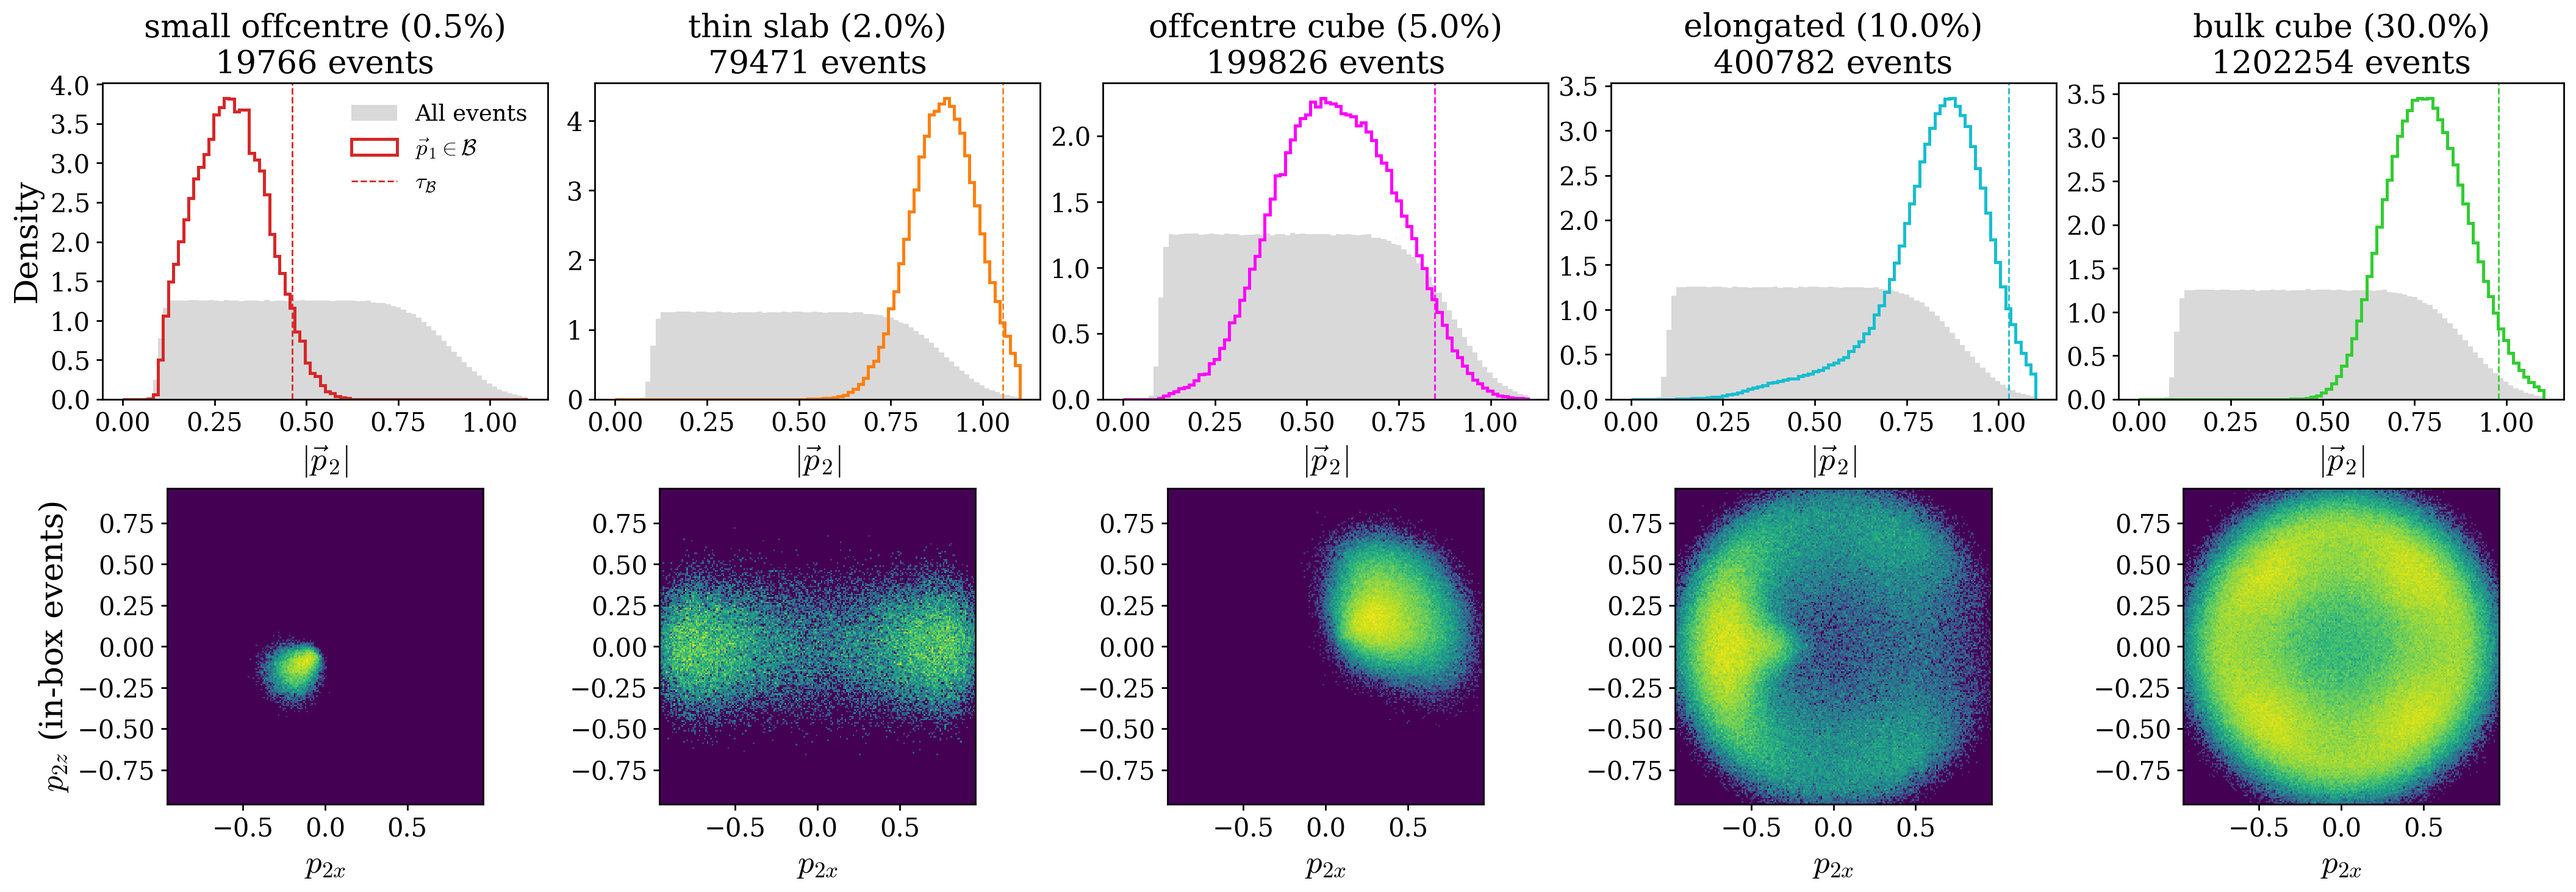
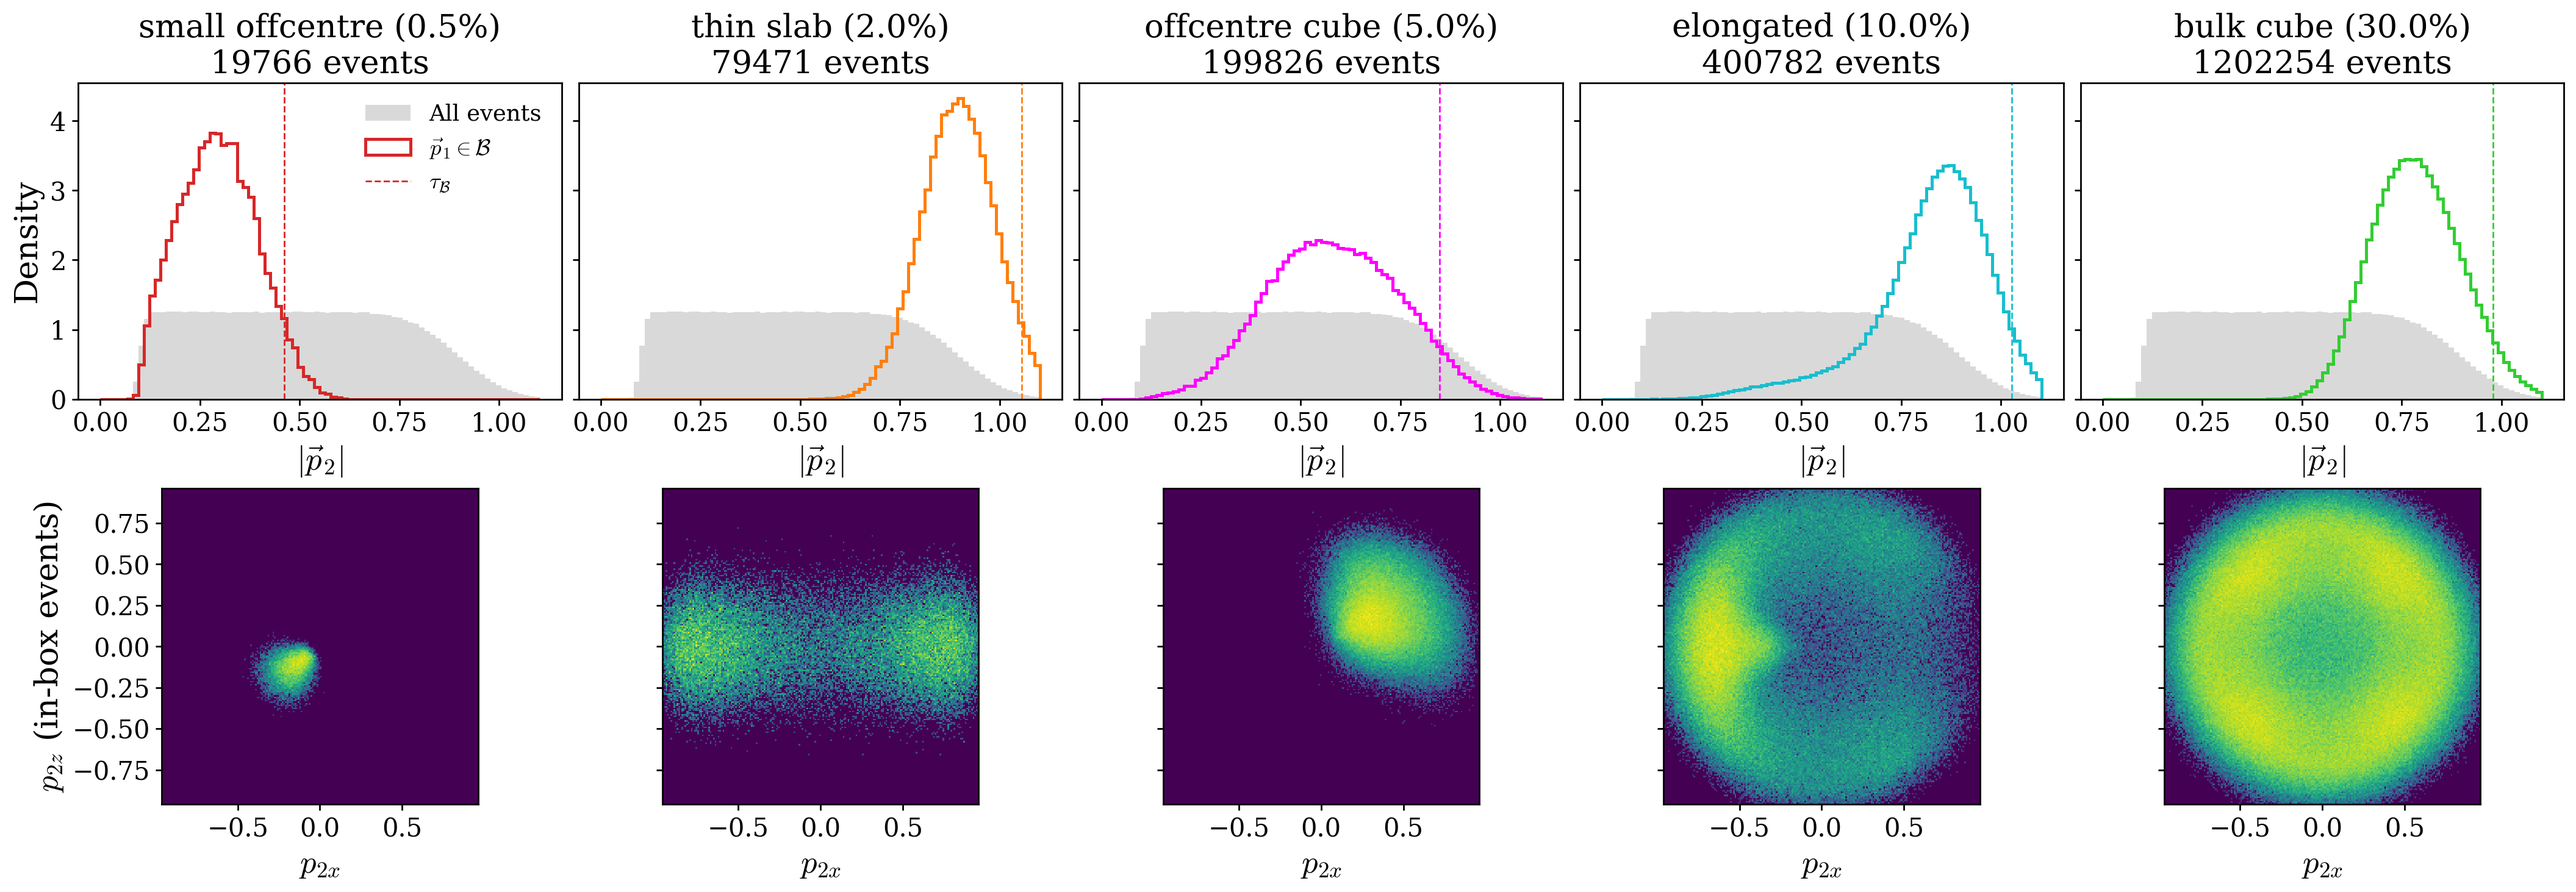
update markdown and figures

diff --git a/constrained_fm/src/visualization/decay6d_is.py b/constrained_fm/src/visualization/decay6d_is.py
@@ -254,7 +254,7 @@ def plot_dataset_p2_given_box(x: np.ndarray, boxes: list[dict]) -> Figure:
     with plt.rc_context(PAPER_RC):
         fig, axes = plt.subplots(2, len(boxes), figsize=(len(boxes) * PANEL_SIZE[0],
                                                          2 * PANEL_SIZE[1]),
-                                 layout="constrained", squeeze=False)
+                                 layout="constrained", sharey="row", squeeze=False)
         for b, (color, box) in enumerate(zip(BOX_COLORS, boxes)):
             inside = ((p1 >= box["lo"]) & (p1 <= box["hi"])).all(1)
             ax = axes[0, b]

diff --git a/constrained_fm/README_decay6d_is.md b/constrained_fm/README_decay6d_is.md
@@ -33,11 +33,18 @@ $$
 \mathbb E[f(\vec p_2)\mid \vec p_1\in\mathcal B].
 $$
 
-The three observables are $|\vec p_2|$, $p_{2z}$, and the tail indicator
-$\mathbb 1[|\vec p_2|>\tau_{\mathcal B}]$. Each box has its own $\tau_{\mathcal B}$, set to the
-95th percentile of $|\vec p_2|$ among true in-box events; therefore the ground-truth tail
-probability is approximately 5% in every box. The exact target density is computed by
-one-dimensional quadrature over $u$ (4096 trapezoid nodes).
+The three observables are $\lVert\vec p_2\rVert$, $p_{2z}$, and the tail indicator
+$\mathbb 1[\lVert\vec p_2\rVert>\tau_{\mathcal B}]$. Here $\tau_{\mathcal B}$ is a cutoff
+chosen separately for each box: 95% of true events inside that box have a smaller
+$\lVert\vec p_2\rVert$, and about 5% have a larger one. It is not a universal physics constant;
+it makes the tail observable similarly rare in all five boxes.
+
+The target density formula contains the hidden split fraction $u$. For a given observed pair
+$(\vec p_1,\vec p_2)$, the density is found by adding up the contributions from all possible
+values of $u$ between 0.1 and 0.9. The code approximates this one-dimensional integral with
+4096 evenly spaced points and trapezoid weights. In this report, “exact density” means this
+physics-based density calculation, as opposed to a density learned by a neural network; the
+integral itself is evaluated numerically.
 
 The physical coupling explains why conditioning on $\vec p_1$ changes $\vec p_2$:
 
@@ -47,8 +54,7 @@ The physical coupling explains why conditioning on $\vec p_1$ changes $\vec p_2$
 
 Five fixed test boxes target different probabilities and geometries. They were selected by
 bisecting a scale against a large simulated pool; their final probabilities were independently
-measured from ground-truth samples. The training-box filter covers probabilities from 0.4% to
-50%, leaving the smallest test box above the training boundary.
+measured from ground-truth samples.
 
 | box | target mass | measured mass | centre of $\vec p_1$ | half-widths | $\tau_{\mathcal B}$ |
 | :--- | ---: | ---: | :--- | :--- | ---: |
@@ -64,15 +70,17 @@ but outside the box along the omitted axis.
 
 ![The particle-1 dataset and projected test boxes](images/thesis_pool/decay6d_is/dataset/dataset_p1_boxes.png)
 
-The boxes induce quite different $\vec p_2$ distributions. The top row compares $|\vec p_2|$
-for all events and in-box events; the bottom row shows the in-box $(p_{2x},p_{2z})$ density.
+The boxes induce quite different $\vec p_2$ distributions. The top row compares
+$\lVert\vec p_2\rVert$ for all events and in-box events. All five panels share one vertical
+density scale, so their heights can be compared directly. The bottom row shows the in-box
+$(p_{2x},p_{2z})$ density.
 
 ![Particle-2 distributions induced by each evaluation box](images/thesis_pool/decay6d_is/dataset/dataset_p2_given_box.png)
 
-Ground-truth conditional means are listed below. Tail means vary slightly around 0.05 because
-the quantile is estimated from a finite pool.
+Ground-truth conditional means are listed below. Tail means vary slightly around
+0.05 because the cutoff is estimated from a finite pool.
 
-| box | $\mathbb E[|\vec p_2|]$ | $\mathbb E[p_{2z}]$ | tail probability |
+| box | $\mathbb E[\lVert\vec p_2\rVert]$ | $\mathbb E[p_{2z}]$ | tail probability |
 | :--- | ---: | ---: | ---: |
 | small_offcentre | 0.29728 | -0.13535 | 0.04950 |
 | thin_slab | 0.89792 | 0.00000 | 0.04995 |
@@ -82,9 +90,11 @@ the quantile is estimated from a finite pool.
 
 ## Models and estimators
 
-The conditional flow $q(\vec p_1,\vec p_2\mid\mathcal B)$ receives the box centre and log
-half-widths and is trained on simulator events conditioned to lie inside the box. Its samples
-are not perfectly confined, so its measured leakage is reported. The unconstrained flow
+The conditional flow $q(\vec p_1,\vec p_2\mid\mathcal B)$ receives the box centre and the
+logarithm of each half-width. A half-width is the distance from the box centre to a face; its
+logarithm keeps the value positive when converted back and makes narrow and wide boxes easier
+to represent on one numerical scale. The model is trained on simulator events conditioned to
+lie inside the box. Its samples are not perfectly confined, so its measured leakage is reported. The unconstrained flow
 $p_{\mathrm{uncon}}$ models the full six-dimensional target.
 
 For a proposal sample $x\sim q$, the importance weight is
@@ -109,9 +119,20 @@ The seven reported estimators are:
 | (e2) | `rej_equal_time` | Rejection sampling with the number of draws adjusted to the same measured GPU time. |
 | (e3) | `rej_equal_nfe` | Rejection sampling with the number of draws adjusted to the same number of network evaluations. |
 
+For (d), each sample from the box flow gets a weight using the physics-based density calculated
+by the $u$-quadrature, rather than the learned unconstrained flow. This corrects the box flow's
+sampling errors using the reference density. It is a comparison standard for (c), not a claim
+that the numerical quadrature has zero error.
+
+In (e3), a “network evaluation” means one call to the neural network to calculate its velocity
+at a solver step. An ODE solver may call the network several times per step, so NFE (“number of
+function evaluations”) counts actual calls, not just the number of steps. Equal NFE compares
+methods at roughly equal neural-network compute, even when their number of generated samples
+differs.
+
 Methods (a) and (b) test the conditional flow without density correction. Methods (c) and (d)
-test importance sampling with learned and exact densities, respectively. Rejection is included
-as a direct baseline and is necessarily wasteful for small boxes.
+test importance sampling with learned and quadrature densities, respectively. Rejection is
+included as a direct baseline and is necessarily wasteful for small boxes.
 
 ## Training and evaluation
 
@@ -153,7 +174,7 @@ The table gives the median RMSE across the five boxes, in physical momentum unit
 probability RMSE is unitless). The `q_raw` median conceals an extreme outlier and is qualified
 below; do not interpret it as uniformly reliable.
 
-| estimator | $|\vec p_2|$ RMSE | $p_{2z}$ RMSE | tail RMSE |
+| estimator | $\lVert\vec p_2\rVert$ RMSE | $p_{2z}$ RMSE | tail RMSE |
 | :--- | ---: | ---: | ---: |
 | (a) raw $q$ | 0.00080* | 0.00175* | 0.00082 |
 | (b) filtered $q$ | 0.00097 | 0.00161 | 0.00086 |
@@ -173,11 +194,24 @@ The per-observable error curves show how errors change with sample budget. Exact
 track one another closely; rejection improves as its draw budget grows, but is much noisier at
 equal $N$.
 
-![RMSE and estimates versus sample count for |p2|](images/thesis_pool/decay6d_is/error_vs_n_p2_norm.png)
+![RMSE and estimates versus sample count for p2 norm](images/thesis_pool/decay6d_is/error_vs_n_p2_norm.png)
 
 ![RMSE and estimates versus sample count for p2z](images/thesis_pool/decay6d_is/error_vs_n_p2_z.png)
 
 ![RMSE and estimates versus sample count for the tail indicator](images/thesis_pool/decay6d_is/error_vs_n_p2_tail.png)
+
+ESS (“effective sample size”) summarizes how evenly the importance weight is spread. Its
+formula is $\mathrm{ESS}=(\sum_i w_i)^2/\sum_i w_i^2$. If all weights are equal, ESS equals the
+sample count $N$; if a few samples carry nearly all the weight, ESS is much smaller. The plots
+show ESS divided by $N$, so values near 1 are healthy and values near 0 indicate that many draws
+contribute little useful information.
+
+In `weight_histograms`, each panel shows the distribution of normalized weights for one box.
+The horizontal axis is the weight divided by the average in-box weight, on a log scale: zero
+means “average weight,” values to the right are heavier-than-average samples, and values to the
+left are lighter. A narrow shape near zero means weights are similar; a long right tail means
+some samples dominate. The vertical axis is histogram density, shown on a log scale so the
+rare heavy weights remain visible.
 
 At $N=100{,}000$, the learned and exact IS estimates of $P(\mathcal B)$ agree with each other
 and the benchmark mass to within about 0.2% relative error in every box. Their effective
